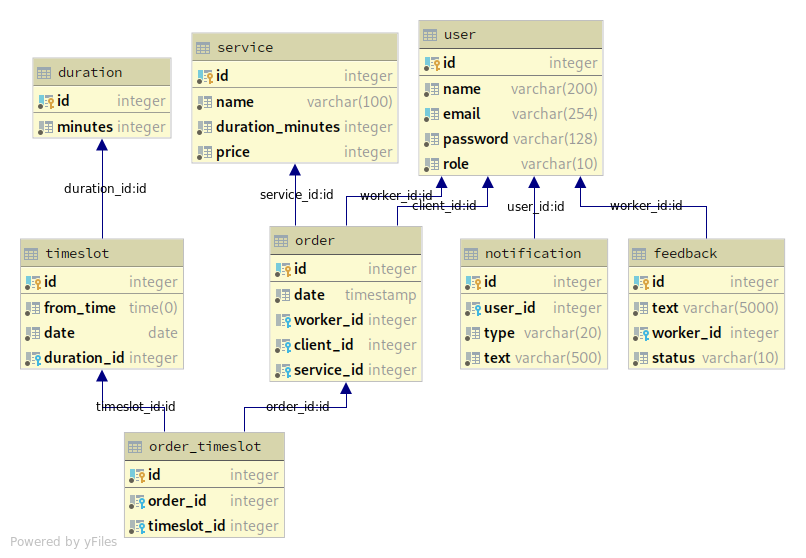
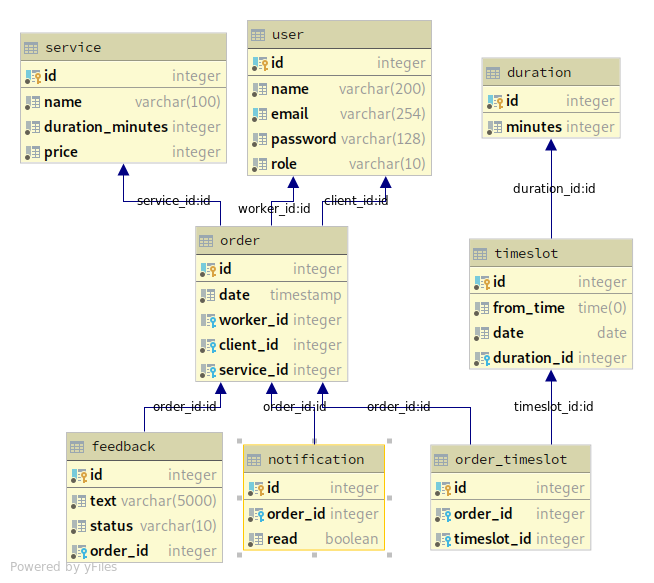
fixed jsp and tests

diff --git a/src/main/java/com/salon/booking/domain/Service.java b/src/main/java/com/salon/booking/domain/Service.java
@@ -9,14 +9,12 @@ public class Service {
     private final String name;
     private final Duration duration;
     private final Integer price;
-    private final Boolean available;
 
     private Service(Builder builder) {
         id = builder.id;
         name = builder.name;
         duration = builder.duration;
         price = builder.price;
-        available = builder.available;
     }
 
     public String getName() {
@@ -35,10 +33,6 @@ public class Service {
         return id;
     }
 
-    public Boolean getAvailable() {
-        return available;
-    }
-
     @Override
     public String toString() {
         return "Service{" +
@@ -46,7 +40,6 @@ public class Service {
                 ", name='" + name + '\'' +
                 ", duration=" + duration +
                 ", price=" + price +
-                ", available=" + available +
                 '}';
     }
 
@@ -58,13 +51,12 @@ public class Service {
         return Objects.equals(id, service.id) &&
                 Objects.equals(name, service.name) &&
                 Objects.equals(duration, service.duration) &&
-                Objects.equals(price, service.price) &&
-                Objects.equals(available, service.available);
+                Objects.equals(price, service.price);
     }
 
     @Override
     public int hashCode() {
-        return Objects.hash(id, name, duration, price, available);
+        return Objects.hash(id, name, duration, price);
     }
 
     public static Builder builder() {
@@ -77,7 +69,6 @@ public class Service {
         builder.name = copy.getName();
         builder.duration = copy.getDuration();
         builder.price = copy.getPrice();
-        builder.available = copy.getAvailable();
         return builder;
     }
 
@@ -86,7 +77,6 @@ public class Service {
         private String name;
         private Duration duration;
         private Integer price;
-        private Boolean available;
 
         private Builder() {
         }
@@ -108,11 +98,6 @@ public class Service {
 
         public Builder setPrice(Integer price) {
             this.price = price;
-            return this;
-        }
-
-        public Builder setAvailable(Boolean available) {
-            this.available = available;
             return this;
         }
 

diff --git a/src/main/java/com/salon/booking/domain/Timeslot.java b/src/main/java/com/salon/booking/domain/Timeslot.java
@@ -14,7 +14,6 @@ public class Timeslot {
     private final Duration duration;
     private final LocalDate date;
     private final List<Order> orders;
-    private final Boolean available;
 
     private Timeslot(Builder builder) {
         id = builder.id;
@@ -22,11 +21,6 @@ public class Timeslot {
         duration = builder.duration;
         date = builder.date;
         orders = builder.orders;
-        available = builder.available;
-    }
-
-    public Boolean getAvailable() {
-        return available;
     }
 
     public List<Order> getOrders() {
@@ -57,7 +51,6 @@ public class Timeslot {
                 ", duration=" + duration +
                 ", date=" + date +
                 ", orders=" + orders +
-                ", available=" + available +
                 '}';
     }
 
@@ -70,13 +63,12 @@ public class Timeslot {
                 Objects.equals(fromTime, timeslot.fromTime) &&
                 Objects.equals(duration, timeslot.duration) &&
                 Objects.equals(date, timeslot.date) &&
-                Objects.equals(orders, timeslot.orders) &&
-                Objects.equals(available, timeslot.available);
+                Objects.equals(orders, timeslot.orders);
     }
 
     @Override
     public int hashCode() {
-        return Objects.hash(id, fromTime, duration, date, orders, available);
+        return Objects.hash(id, fromTime, duration, date, orders);
     }
 
     public static Builder builder() {
@@ -90,7 +82,6 @@ public class Timeslot {
         builder.duration = copy.getDuration();
         builder.date = copy.getDate();
         builder.orders = copy.getOrders();
-        builder.available = copy.getAvailable();
         return builder;
     }
 
@@ -101,7 +92,6 @@ public class Timeslot {
         private Duration duration;
         private LocalDate date;
         private List<Order> orders = new ArrayList<>();
-        private Boolean available;
 
         private Builder() {
         }
@@ -128,11 +118,6 @@ public class Timeslot {
 
         public Builder setOrders(List<Order> orders) {
             this.orders = orders;
-            return this;
-        }
-
-        public Builder setAvailable(Boolean available) {
-            this.available = available;
             return this;
         }
 

diff --git a/src/main/java/com/salon/booking/service/impl/NotificationServiceImpl.java b/src/main/java/com/salon/booking/service/impl/NotificationServiceImpl.java
@@ -8,6 +8,7 @@ import com.salon.booking.entity.OrderEntity;
 import com.salon.booking.mapper.Mapper;
 import com.salon.booking.service.NotificationService;
 import com.salon.booking.service.OrderService;
+import com.salon.booking.service.exception.NoSuchItemException;
 
 import java.time.LocalDateTime;
 import java.util.List;
@@ -34,7 +35,7 @@ public class NotificationServiceImpl implements NotificationService {
                 .map(this::buildNotificationWithOrder)
                 .collect(Collectors.toList());
 
-        notificationDao.updateAllAsRead();
+        notificationDao.updateAllAsRead(userId);
 
         return notifications;
     }
@@ -51,7 +52,7 @@ public class NotificationServiceImpl implements NotificationService {
 
         Integer orderId = notificationEntity.getOrder().getId();
         Order order = orderService.findById(orderId)
-                .orElseThrow(NoSuchElementException::new);
+                .orElseThrow(NoSuchItemException::new);
 
         return new Notification(notification.getId(), order, notification.getRead());
     }
@@ -65,7 +66,7 @@ public class NotificationServiceImpl implements NotificationService {
             Optional<NotificationEntity> notification = notificationDao.findByOrderId(order.getId());
 
             if (notification.isPresent()) {
-                if (Objects.equals(notification.get().getRead(), false)) {
+                if (notification.get().getRead().equals(false)) {
                     unreadNotifications++;
                 }
             } else {
@@ -78,6 +79,11 @@ public class NotificationServiceImpl implements NotificationService {
     }
 
     private NotificationEntity buildNewNotification(Integer orderId) {
-        return new NotificationEntity(null, OrderEntity.builder().setId(orderId).build(), false);
+        return new NotificationEntity(
+                null,
+                OrderEntity.builder()
+                        .setId(orderId)
+                        .build(),
+                false);
     }
 }

diff --git a/src/test/java/com/salon/booking/command/user/LoginCommandTest.java b/src/test/java/com/salon/booking/command/user/LoginCommandTest.java
@@ -4,6 +4,7 @@ import com.salon.booking.command.AbstractCommandTest;
 import com.salon.booking.domain.User;
 import com.salon.booking.domain.UserLoginForm;
 import com.salon.booking.service.AuthService;
+import com.salon.booking.service.NotificationService;
 import com.salon.booking.utility.PageUtility;
 import org.junit.After;
 import org.junit.Test;
@@ -17,6 +18,7 @@ import java.io.IOException;
 import java.util.Optional;
 
 import static org.mockito.ArgumentMatchers.any;
+import static org.mockito.ArgumentMatchers.anyInt;
 import static org.mockito.ArgumentMatchers.anyString;
 import static org.mockito.ArgumentMatchers.eq;
 import static org.mockito.Mockito.doNothing;
@@ -41,6 +43,9 @@ public class LoginCommandTest extends AbstractCommandTest {
     private static final String LOGIN_PAGE_PATH = PageUtility.getViewPathByName("login");
 
     @Mock
+    private NotificationService notificationService;
+
+    @Mock
     private AuthService authService;
 
     @InjectMocks
@@ -48,7 +53,7 @@ public class LoginCommandTest extends AbstractCommandTest {
 
     @After
     public void resetMocks() {
-        reset(authService);
+        reset(authService, notificationService);
     }
 
     @Test
@@ -60,10 +65,12 @@ public class LoginCommandTest extends AbstractCommandTest {
         when(request.getSession(eq(false))).thenReturn(null);
         when(request.getSession(eq(true))).thenReturn(session);
 
+        when(notificationService.updateNotificationsReturningCount(any(), any())).thenReturn(2L);
         when(authService.login(eq(loginForm))).thenReturn(Optional.of(USER));
 
         loginCommand.processPost(request, response);
 
+        verify(session).setAttribute(eq("notificationsCounter"), eq(2L));
         verify(session).setAttribute(eq("user"), eq(USER));
         verify(response).sendRedirect(any());
     }

diff --git a/src/main/java/com/salon/booking/service/impl/OrderServiceImpl.java b/src/main/java/com/salon/booking/service/impl/OrderServiceImpl.java
@@ -14,6 +14,7 @@ import com.salon.booking.entity.UserEntity;
 import com.salon.booking.mapper.Mapper;
 import com.salon.booking.service.OrderService;
 import com.salon.booking.service.TimeslotService;
+import com.salon.booking.service.exception.NoSuchItemException;
 import org.apache.logging.log4j.LogManager;
 import org.apache.logging.log4j.Logger;
 
@@ -98,7 +99,6 @@ public class OrderServiceImpl implements OrderService {
     public List<Service> findAllServices() {
         return serviceDao.findAll().stream()
                 .map(serviceMapper::mapEntityToDomain)
-                .map(service -> Service.builder(service).setAvailable(true).build())
                 .collect(Collectors.toList());
     }
 
@@ -117,11 +117,11 @@ public class OrderServiceImpl implements OrderService {
 
     private OrderEntity fillOrderEntity(OrderEntity orderEntity) {
         ServiceEntity service = serviceDao.findById(orderEntity.getService().getId())
-                .orElseThrow(NoSuchElementException::new);
+                .orElseThrow(NoSuchItemException::new);
         UserEntity worker = userDao.findById(orderEntity.getWorker().getId())
-                .orElseThrow(NoSuchElementException::new);
+                .orElseThrow(NoSuchItemException::new);
         UserEntity client = userDao.findById(orderEntity.getClient().getId())
-                .orElseThrow(NoSuchElementException::new);
+                .orElseThrow(NoSuchItemException::new);
 
         return OrderEntity.builder(orderEntity)
                 .setService(service)

diff --git a/src/main/java/com/salon/booking/dao/impl/NotificationDaoImpl.java b/src/main/java/com/salon/booking/dao/impl/NotificationDaoImpl.java
@@ -24,7 +24,7 @@ public class NotificationDaoImpl extends AbstractCrudDaoImpl<NotificationEntity>
 
     private static final String INSERT_QUERY = "INSERT INTO notification (order_id, read) VALUES (?, ?) RETURNING id";
     private static final String UPDATE_QUERY = "UPDATE notification SET order_id = ?, read = ? WHERE id = ?";
-    private static final String UPDATE_ALL_AS_READ_QUERY = "UPDATE notification SET read = true";
+    private static final String UPDATE_ALL_AS_READ_QUERY = "UPDATE notification n SET read = true FROM \"order\" o WHERE n.order_id = o.id AND o.client_id = ?";
     private static final String DELETE_QUERY = "DELETE FROM notification WHERE id = ?";
 
     public NotificationDaoImpl(DataSourceConnector connector) {
@@ -80,9 +80,10 @@ public class NotificationDaoImpl extends AbstractCrudDaoImpl<NotificationEntity>
     }
 
     @Override
-    public void updateAllAsRead() {
+    public void updateAllAsRead(Integer userId) {
         try (DataSourceConnection connection = connector.getConnection();
              PreparedStatement statement = connection.getOriginal().prepareStatement(UPDATE_ALL_AS_READ_QUERY)) {
+            statement.setInt(1, userId);
             int affectedRows = statement.executeUpdate();
             throwIfNotAffected(affectedRows);
         } catch (SQLException e) {

diff --git a/src/main/java/com/salon/booking/service/impl/FeedbackServiceImpl.java b/src/main/java/com/salon/booking/service/impl/FeedbackServiceImpl.java
@@ -12,11 +12,11 @@ import com.salon.booking.entity.OrderEntity;
 import com.salon.booking.mapper.Mapper;
 import com.salon.booking.service.FeedbackService;
 import com.salon.booking.service.OrderService;
+import com.salon.booking.service.exception.NoSuchItemException;
 import com.salon.booking.service.validator.Validator;
 
 import java.time.LocalDateTime;
 import java.util.List;
-import java.util.NoSuchElementException;
 
 public class FeedbackServiceImpl implements FeedbackService {
 
@@ -51,7 +51,7 @@ public class FeedbackServiceImpl implements FeedbackService {
 
         Integer orderId = feedbackEntity.getOrder().getId();
         Order order = orderService.findById(orderId)
-                .orElseThrow(NoSuchElementException::new);
+                .orElseThrow(NoSuchItemException::new);
 
         return Feedback.builder(feedback)
                 .setOrder(order)

diff --git a/src/test/java/com/salon/booking/dao/impl/FeedbackDaoImplTest.java b/src/test/java/com/salon/booking/dao/impl/FeedbackDaoImplTest.java
@@ -9,7 +9,7 @@ import org.junit.Test;
 public class FeedbackDaoImplTest extends AbstractDaoImplTest {
 
     private static final OrderEntity TEST_ORDER = OrderEntity.builder()
-            .setId(28)
+            .setId(16)
             .build();
 
     private static final FeedbackEntity TEST_FEEDBACK = FeedbackEntity.builder()

diff --git a/src/main/java/com/salon/booking/domain/Role.java b/src/main/java/com/salon/booking/domain/Role.java
@@ -2,10 +2,10 @@ package com.salon.booking.domain;
 
 import com.salon.booking.utility.EnumUtility;
 
-import java.util.Arrays;
 import java.util.Optional;
 
 public enum Role {
+
     CLIENT, ADMIN, WORKER;
 
     public static Optional<Role> findByName(String name) {

diff --git a/src/main/java/com/salon/booking/dao/NotificationDao.java b/src/main/java/com/salon/booking/dao/NotificationDao.java
@@ -13,5 +13,5 @@ public interface NotificationDao extends CrudDao<NotificationEntity> {
 
     List<NotificationEntity> findAllRead(Integer userId);
 
-    void updateAllAsRead();
+    void updateAllAsRead(Integer userId);
 }

diff --git a/src/main/java/com/salon/booking/domain/FeedbackStatus.java b/src/main/java/com/salon/booking/domain/FeedbackStatus.java
@@ -5,6 +5,7 @@ import com.salon.booking.utility.EnumUtility;
 import java.util.Optional;
 
 public enum FeedbackStatus {
+    
     APPROVED, CREATED;
 
     public static Optional<FeedbackStatus> findByName(String name) {

diff --git a/src/main/java/com/salon/booking/service/exception/NoSuchItemException.java b/src/main/java/com/salon/booking/service/exception/NoSuchItemException.java
@@ -1,0 +1,4 @@
+package com.salon.booking.service.exception;
+
+public class NoSuchItemException extends RuntimeException {
+}
